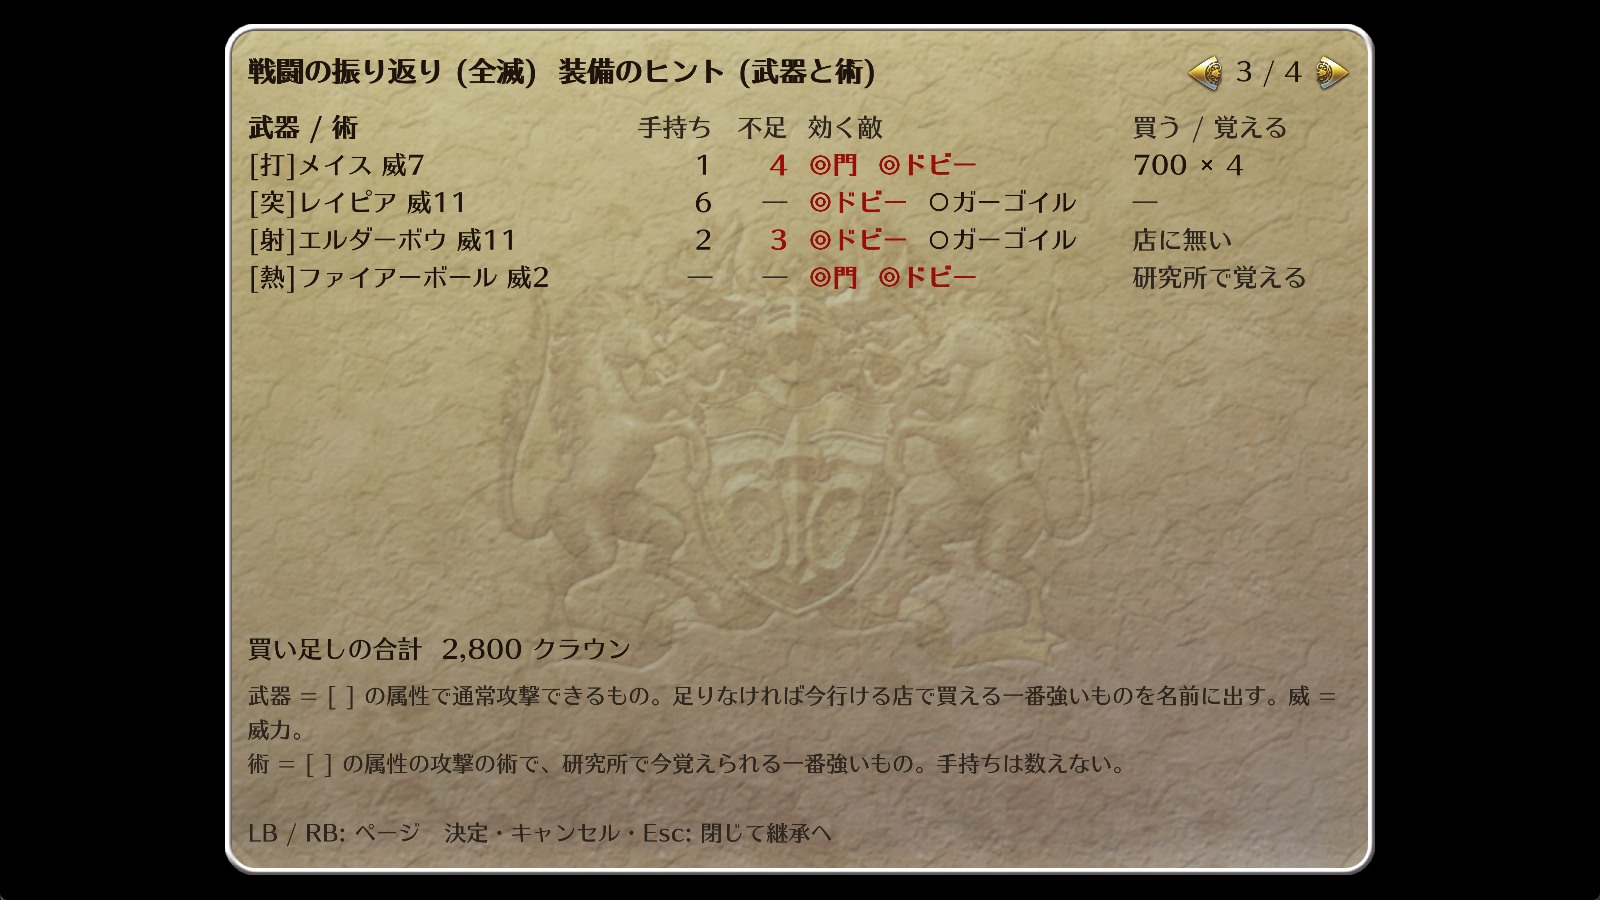
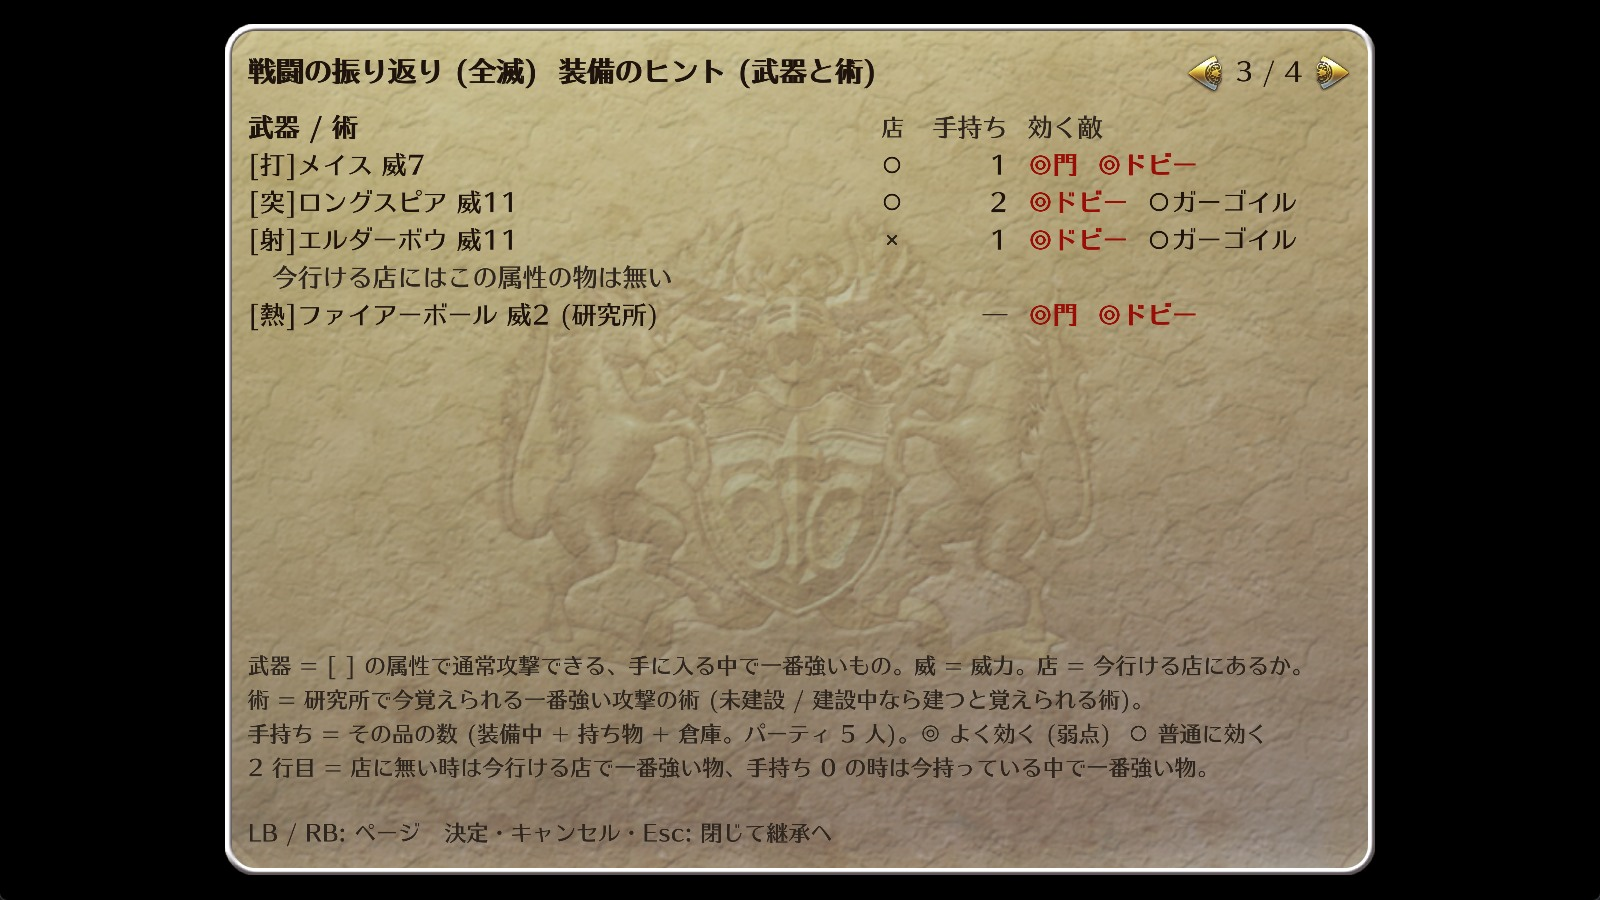
docs: docs: battle-review-3/4 screenshots retaken with the v0.58.0 table; equip-hint footnotes shortened to one line each (dev e5cf9bf)

diff --git a/RS2QoL/Patches/BattleReviewPatch.cs b/RS2QoL/Patches/BattleReviewPatch.cs
@@ -1625,7 +1625,7 @@ namespace RS2QoL.Patches
             List<AttrRank> ranks = RankAttrs(0xFF);
             bool anyWeak = false;
             foreach (AttrRank r in ranks) if (r.Weak > 0) anyWeak = true;
-            float tableBottom = bottom - lineH * 3.6f;   // 下に説明 3 行 (+ 余白) を残す
+            float tableBottom = bottom - lineH * 4.4f;   // 下に説明 4 行 (0.9 行 × 4 + 余白) を残す
             TblHeader(t, cy, "武器 / 術", "効く敵", null); cy += lineH;
             cy = BeginTable(cy, tableBottom, lineH);
             int shown = 0, f = Flag(132);
@@ -1684,9 +1684,11 @@ namespace RS2QoL.Patches
             cy = EndTable(t, cy, tableBottom, lineH);
             cy += Mathf.Round(lineH * 0.3f);
             float hintH = Mathf.Round(lineH * 0.9f);
-            cy = DrawWrapped(cx, cy, cw, hintH, "武器 = [ ] の属性で通常攻撃できる、手に入る中で一番強いもの (手持ち + 倉庫 + 今行ける店)。威 = 威力。店 = 今行ける店で売っているか (○ / ×)。", s_hint, bottom);
-            cy = DrawWrapped(cx, cy, cw, hintH, "術 = [ ] の属性の攻撃の術で、研究所で今覚えられる一番強いもの (未建設 / 建設中なら建つと覚えられるもの)。手持ちは数えない。", s_hint, bottom);
-            cy = DrawWrapped(cx, cy, cw, hintH, "手持ち = その品の数 (装備中 + 持ち物 + 倉庫。パーティ " + members + " 人分を目安に)。店 × の行は 2 行目に今行ける店で買える一番強い物、手持ち 0 の行は今持っている中で一番強い物。◎ よく効く (弱点)  ○ 普通に効く", s_hint, bottom);
+            // 注釈は 1 行ずつ 1 行に収まる長さ (1600×900 で約 50 字。2026-10-28 の撮影で 3 行目が切れていた)
+            cy = DrawWrapped(cx, cy, cw, hintH, "武器 = [ ] の属性で通常攻撃できる、手に入る中で一番強いもの。威 = 威力。店 = 今行ける店にあるか。", s_hint, bottom);
+            cy = DrawWrapped(cx, cy, cw, hintH, "術 = 研究所で今覚えられる一番強い攻撃の術 (未建設 / 建設中なら建つと覚えられる術)。", s_hint, bottom);
+            cy = DrawWrapped(cx, cy, cw, hintH, "手持ち = その品の数 (装備中 + 持ち物 + 倉庫。パーティ " + members + " 人)。◎ よく効く (弱点)  ○ 普通に効く", s_hint, bottom);
+            cy = DrawWrapped(cx, cy, cw, hintH, "2 行目 = 店に無い時は今行ける店で一番強い物、手持ち 0 の時は今持っている中で一番強い物。", s_hint, bottom);
         }
 
         /// <summary>
@@ -1702,7 +1704,7 @@ namespace RS2QoL.Patches
             Tbl t = MakeTbl(cx, cw, lineH, fontSize, 5.5f, 7.5f);   // 受けた量 / 誰から を別の列に (ユーザー 2026-10-25)
             List<AttrCol> used = UsedAttrs();
             List<ArmorCand> ac = ArmorCandidates();
-            float tableBottom = bottom - lineH * 3.6f;
+            float tableBottom = bottom - lineH * 4.4f;
             TblHeader(t, cy, "防具", "受けた量", "誰から"); cy += lineH;
             cy = BeginTable(cy, tableBottom, lineH);
             if (used.Count == 0) { Txt(new Rect(cx, cy, cw, lineH), "敵の技の属性の記録がない", s_dim); cy += lineH; }
@@ -1736,9 +1738,10 @@ namespace RS2QoL.Patches
             cy = EndTable(t, cy, tableBottom, lineH);
             cy += Mathf.Round(lineH * 0.3f);
             float hintH = Mathf.Round(lineH * 0.9f);
-            cy = DrawWrapped(cx, cy, cw, hintH, "防具 = [ ] の属性の防御力 (防) が手に入る中で一番高いもの (部位は問わない。手持ち + 倉庫 + 今行ける店)。店 = 今行ける店で売っているか (○ / ×)。", s_hint, bottom);
+            cy = DrawWrapped(cx, cy, cw, hintH, "防具 = [ ] の属性の防御力 (防) が手に入る中で一番高いもの (部位は問わない)。店 = 今行ける店にあるか。", s_hint, bottom);
             cy = DrawWrapped(cx, cy, cw, hintH, "受けた量: 被 = 受けた HP のダメージの合計。HP の減らない技は技の名前。", s_hint, bottom);
-            cy = DrawWrapped(cx, cy, cw, hintH, "手持ち = その品の数 (装備中 + 持ち物 + 倉庫。パーティ " + members + " 人分を目安に)。店 × の行は 2 行目に今行ける店で買える一番強い物、手持ち 0 の行は今持っている中で一番強い物。", s_hint, bottom);
+            cy = DrawWrapped(cx, cy, cw, hintH, "手持ち = その品の数 (装備中 + 持ち物 + 倉庫。パーティ " + members + " 人)。", s_hint, bottom);
+            cy = DrawWrapped(cx, cy, cw, hintH, "2 行目 = 店に無い時は今行ける店で一番強い物、手持ち 0 の時は今持っている中で一番強い物。", s_hint, bottom);
         }
 
         private static Texture2D Solid(Color c)
